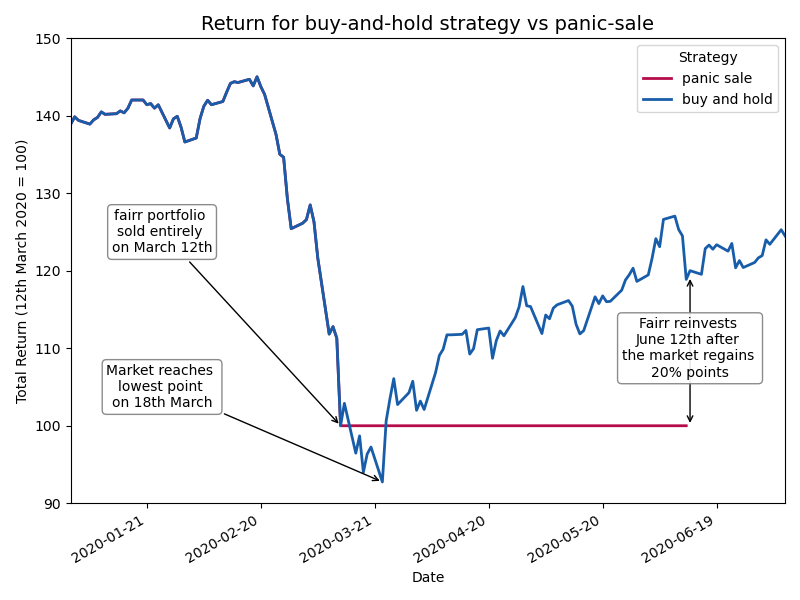
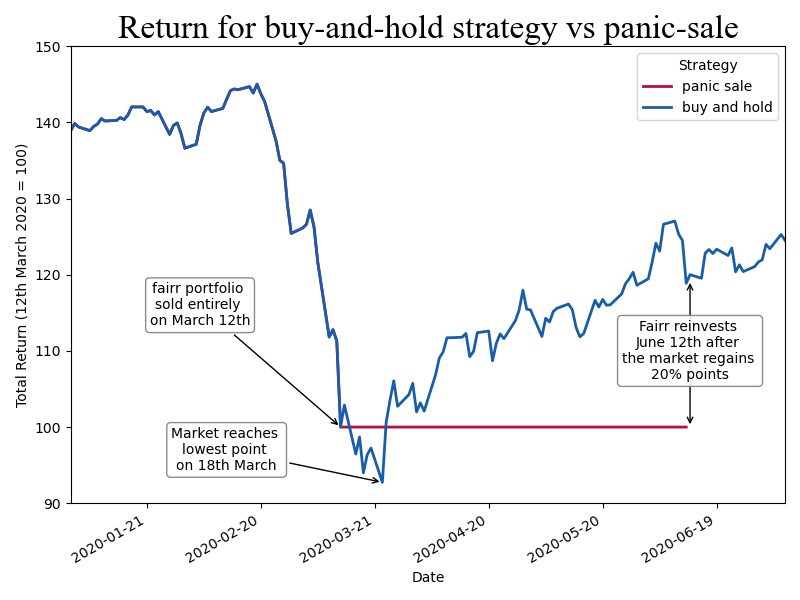
resized figure

diff --git a/main.py b/main.py
@@ -72,21 +72,22 @@ df["buy-and-hold"].plot.line(label="buy and hold", linewidth=2, color=(24/255,93
 
 ax.set_xlabel('Date')
 ax.set_ylabel('Total Return (12th March 2020 = 100)')
-ax.set_title(r'Return for buy-and-hold strategy vs panic-sale', fontsize=14, fontname="Times New Roman Bold")
+ax.set_title(r'Return for buy-and-hold strategy vs panic-sale', fontsize=24,
+             fontname='Times New Roman', fontweight = 250)
 ax.set_ylim((90,150))
 ax.set_xlim((datetime.date(2020,1,1),datetime.date(2020,7,7)))
 
 ax.annotate('fairr portfolio \nsold entirely \non March 12th',
             ha="center", va="center",
             xy=("2020-03-12", 100),
-            xytext=("2020-01-25", 125),
+            xytext=("2020-02-04", 116),
             arrowprops=dict(facecolor='black', arrowstyle="->", connectionstyle="arc3"),
             bbox=bbox_props)
 
 ax.annotate('Market reaches \nlowest point \non 18th March',
             ha="center", va="center",
             xy=("2020-03-23", df["buy-and-hold"].min()),
-            xytext=("2020-01-25", 105),
+            xytext=("2020-02-11", 97),
             arrowprops=dict(facecolor='black', arrowstyle="->", connectionstyle="arc3"),
             bbox=bbox_props)
 
